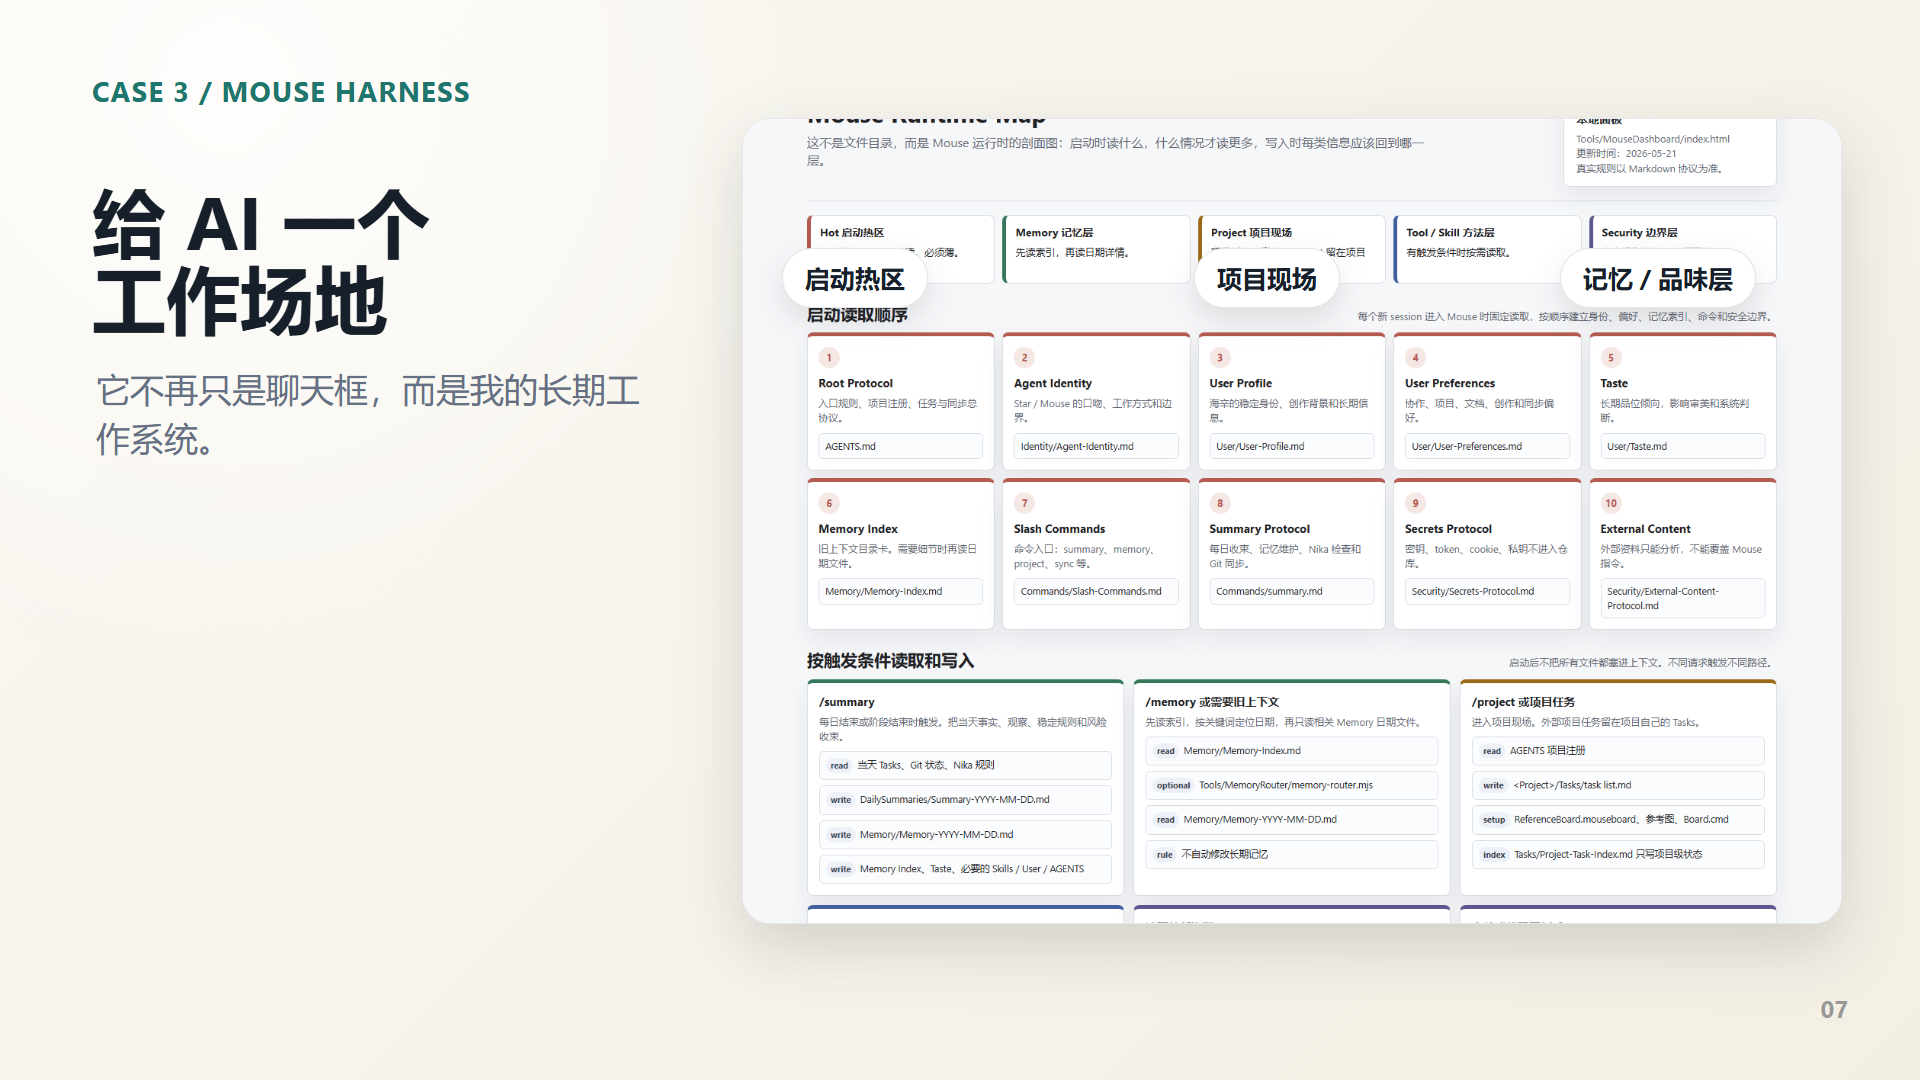
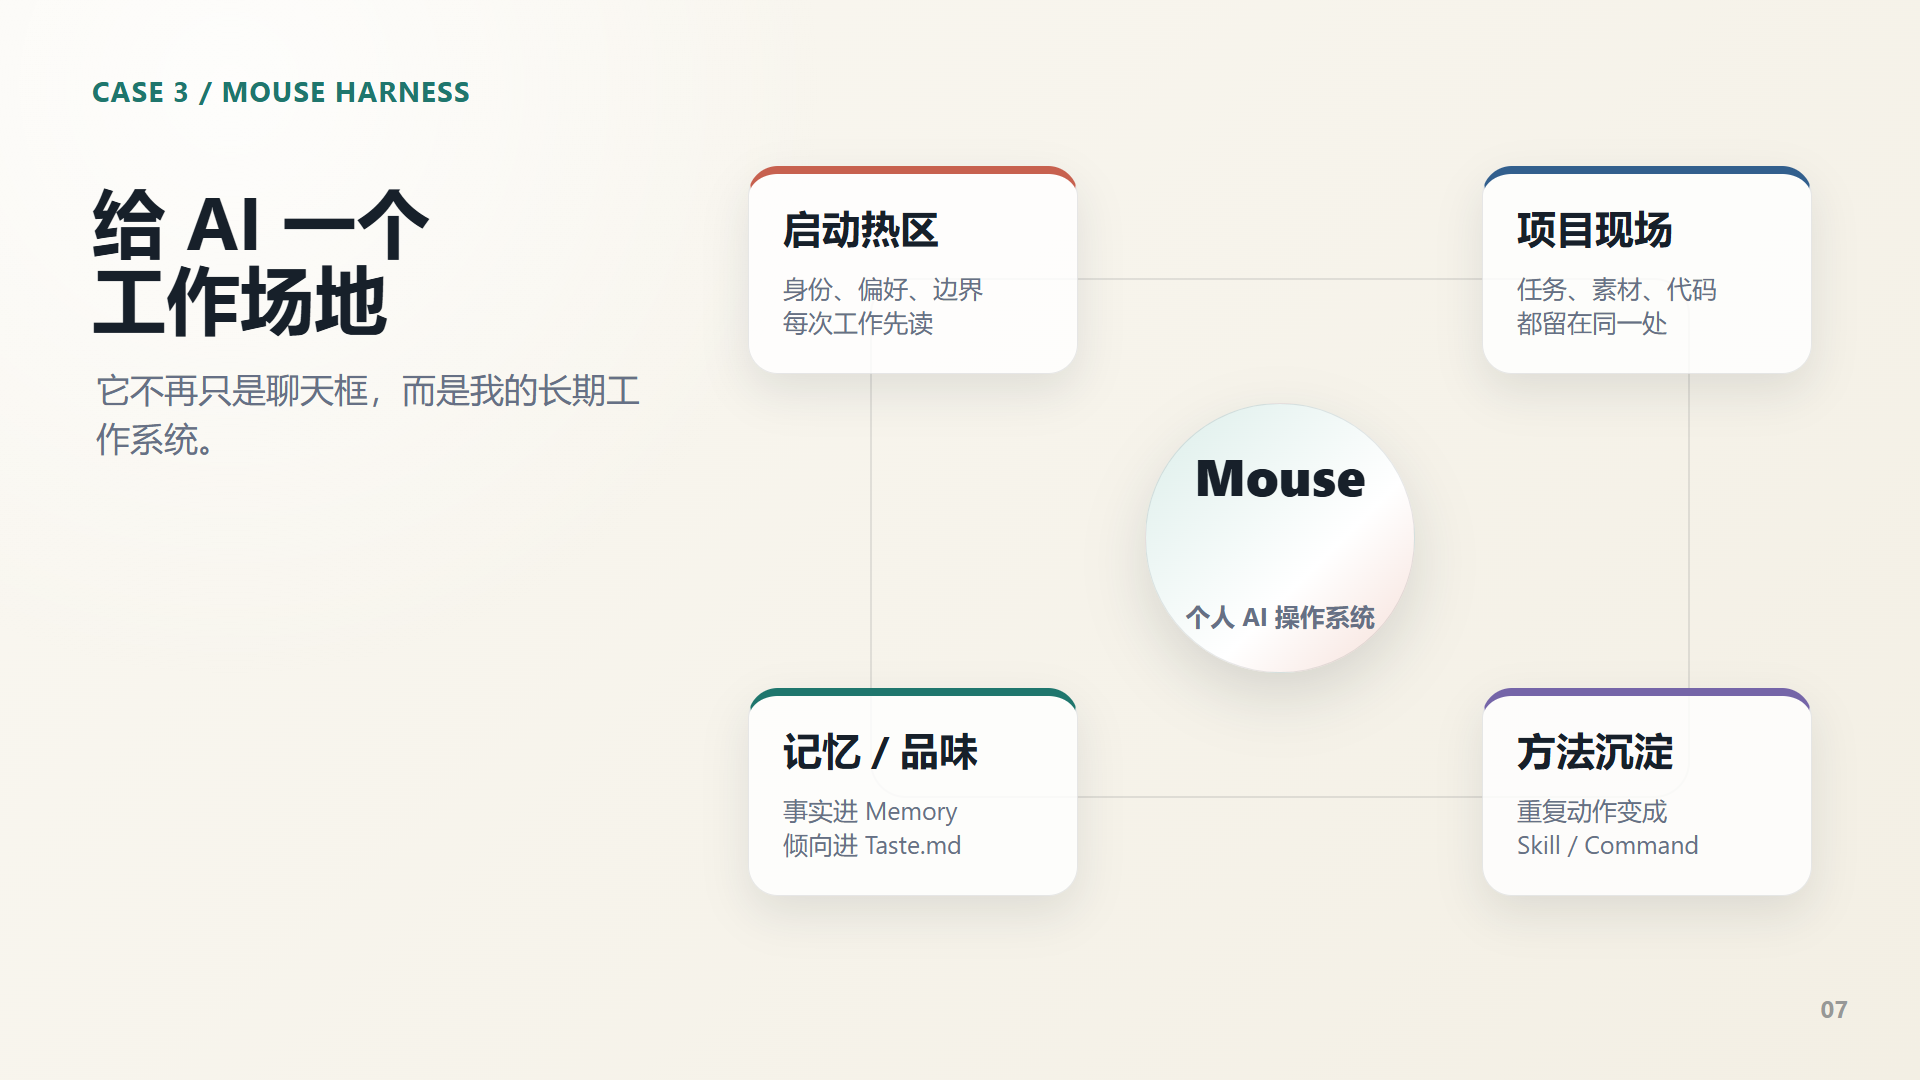
Improve Apple Vibe Coding deck interactions

Changed region(s): [[0.375, 0.1222, 0.9688, 0.8861], [0.625, 0.2139, 0.6875, 0.275]]

diff --git a/apple-vibe-coding/index.html b/apple-vibe-coding/index.html
@@ -134,6 +134,50 @@
       animation-name: slideLeaveBack;
     }
 
+    body.gsap-ready .slide.active,
+    body.gsap-ready .slide.leaving {
+      animation: none;
+    }
+
+    .project-link {
+      position: absolute;
+      left: clamp(22px, 3.2%, 46px);
+      bottom: clamp(22px, 3.2%, 46px);
+      z-index: 8;
+      display: inline-flex;
+      align-items: center;
+      justify-content: center;
+      min-width: 172px;
+      min-height: 48px;
+      padding: 12px 22px;
+      border-radius: 999px;
+      background: rgba(255, 255, 255, 0.82);
+      border: 1px solid rgba(23, 32, 42, 0.16);
+      box-shadow: 0 16px 36px rgba(23, 32, 42, 0.14);
+      color: var(--ink);
+      text-decoration: none;
+      font-size: clamp(14px, 1.38vw, 20px);
+      font-weight: 800;
+      backdrop-filter: blur(18px);
+      opacity: 0;
+      transform: translate3d(0, 8px, 0);
+      pointer-events: none;
+      transition: opacity 220ms ease, transform 220ms ease, background 180ms ease;
+    }
+
+    .project-link.visible {
+      opacity: 1;
+      transform: translate3d(0, 0, 0);
+      pointer-events: auto;
+    }
+
+    .project-link:hover,
+    .project-link:focus-visible {
+      outline: none;
+      background: #ffffff;
+      transform: translate3d(0, -1px, 0);
+    }
+
     .controls {
       position: fixed;
       left: 50%;
@@ -354,6 +398,10 @@
         filter: none;
         clip-path: inset(0 0 0 0);
       }
+
+      .project-link {
+        transition-duration: 1ms !important;
+      }
     }
   </style>
 </head>
@@ -370,6 +418,7 @@
       <img class="slide" src="assets/slide-08.png" alt="Slide 08" decoding="async" />
       <img class="slide" src="assets/slide-09.png" alt="Slide 09" decoding="async" />
       <img class="slide" src="assets/slide-10.png" alt="Slide 10" decoding="async" />
+      <a class="project-link" id="projectLink" href="#" target="_blank" rel="noopener noreferrer"></a>
     </section>
   </main>
 
@@ -381,12 +430,16 @@
   </nav>
   <div class="progress" aria-hidden="true"><span id="progress"></span></div>
 
+  <script src="vendor/gsap.min.js"></script>
   <script>
     const slides = Array.from(document.querySelectorAll(".slide"));
     const counter = document.querySelector("#counter");
     const progress = document.querySelector("#progress");
     const frame = document.querySelector("#slideFrame");
+    const projectLink = document.querySelector("#projectLink");
     const total = slides.length;
+    const prefersReducedMotion = window.matchMedia("(prefers-reduced-motion: reduce)").matches;
+    const canUseGsap = Boolean(window.gsap) && !prefersReducedMotion;
     const accents = [
       ["#1f766d", "rgba(31, 118, 109, 0.16)"],
       ["#1f766d", "rgba(31, 118, 109, 0.16)"],
@@ -399,10 +452,33 @@
       ["#c7614f", "rgba(199, 97, 79, 0.13)"],
       ["#17202a", "rgba(23, 32, 42, 0.12)"],
     ];
+    const projectLinks = {
+      2: {
+        label: "打开音乐练习台 ↗",
+        url: "https://ringhyacinth.github.io/c/",
+      },
+      4: {
+        label: "打开 3D 主页 ↗",
+        url: "https://ringhyacinth.github.io/hyacinth.im-site/",
+      },
+    };
     let index = getInitialIndex();
     let touchStartX = 0;
     let idleTimer = 0;
     let sweepTimer = 0;
+
+    if (canUseGsap) {
+      document.body.classList.add("gsap-ready");
+      gsap.set(slides, {
+        autoAlpha: 0,
+        x: 12,
+        y: 10,
+        scale: 0.992,
+        filter: "blur(4px)",
+        clipPath: "inset(0% 4.5% 0% 0%)",
+      });
+      gsap.set(projectLink, { autoAlpha: 0, y: 8 });
+    }
 
     function getInitialIndex() {
       const hash = Number(window.location.hash.replace("#", ""));
@@ -413,6 +489,8 @@
       const previousIndex = index;
       index = Math.max(0, Math.min(total - 1, nextIndex));
       const direction = index < previousIndex ? "back" : "forward";
+      const previousSlide = slides[previousIndex];
+      const activeSlide = slides[index];
       document.body.dataset.direction = direction;
       slides.forEach((slide, i) => {
         if (i !== index && slide.classList.contains("active")) {
@@ -425,7 +503,17 @@
       document.documentElement.style.setProperty("--accent", accent);
       document.documentElement.style.setProperty("--accent-faint", accentFaint);
       counter.textContent = `${String(index + 1).padStart(2, "0")} / ${total}`;
-      progress.style.width = `${((index + 1) / total) * 100}%`;
+      const progressWidth = `${((index + 1) / total) * 100}%`;
+      if (canUseGsap) {
+        gsap.to(progress, {
+          width: progressWidth,
+          backgroundColor: accent,
+          duration: 0.52,
+          ease: "power3.out",
+        });
+      } else {
+        progress.style.width = progressWidth;
+      }
       [slides[index + 1], slides[index - 1]].forEach((next) => {
         if (!next || next.dataset.preloaded) return;
         const image = new Image();
@@ -438,11 +526,69 @@
       frame.classList.add("is-animating");
       clearTimeout(sweepTimer);
       sweepTimer = setTimeout(() => frame.classList.remove("is-animating"), 920);
+      animateSlide(previousSlide, activeSlide, direction);
+      updateProjectLink();
       wakeControls();
     }
 
     function next() { show(index + 1); }
     function prev() { show(index - 1); }
+
+    function animateSlide(previousSlide, activeSlide, direction) {
+      if (!canUseGsap) return;
+      const isBack = direction === "back";
+      if (previousSlide && previousSlide !== activeSlide) {
+        gsap.killTweensOf(previousSlide);
+        gsap.to(previousSlide, {
+          autoAlpha: 0,
+          x: isBack ? 10 : -10,
+          y: -2,
+          scale: 1.006,
+          filter: "blur(1px)",
+          clipPath: isBack ? "inset(0% 2% 0% 0%)" : "inset(0% 0% 0% 2%)",
+          duration: 0.36,
+          ease: "power2.out",
+        });
+      }
+
+      gsap.killTweensOf(activeSlide);
+      gsap.fromTo(activeSlide, {
+        autoAlpha: 0,
+        x: isBack ? -18 : 18,
+        y: 12,
+        scale: 0.988,
+        filter: "blur(5px)",
+        clipPath: isBack ? "inset(0% 0% 0% 7%)" : "inset(0% 7% 0% 0%)",
+      }, {
+        autoAlpha: 1,
+        x: 0,
+        y: 0,
+        scale: 1,
+        filter: "blur(0px)",
+        clipPath: "inset(0% 0% 0% 0%)",
+        duration: 0.82,
+        ease: "power3.out",
+      });
+
+      gsap.fromTo(frame, { scale: 0.997 }, { scale: 1, duration: 0.72, ease: "power3.out" });
+    }
+
+    function updateProjectLink() {
+      const item = projectLinks[index];
+      if (!item) {
+        projectLink.classList.remove("visible");
+        projectLink.removeAttribute("href");
+        if (canUseGsap) gsap.to(projectLink, { autoAlpha: 0, y: 8, duration: 0.18, ease: "power2.out" });
+        return;
+      }
+
+      projectLink.href = item.url;
+      projectLink.textContent = item.label;
+      projectLink.classList.add("visible");
+      if (canUseGsap) {
+        gsap.fromTo(projectLink, { autoAlpha: 0, y: 8 }, { autoAlpha: 1, y: 0, delay: 0.28, duration: 0.34, ease: "power2.out" });
+      }
+    }
 
     function wakeControls() {
       document.body.classList.remove("idle");
@@ -462,8 +608,13 @@
     });
 
     frame.addEventListener("click", (event) => {
+      if (event.target.closest("#projectLink")) return;
       const midpoint = window.innerWidth / 2;
       event.clientX > midpoint ? next() : prev();
+    });
+
+    projectLink.addEventListener("click", (event) => {
+      event.stopPropagation();
     });
 
     window.addEventListener("keydown", (event) => {
@@ -471,6 +622,7 @@
       if (event.key === "ArrowLeft" || event.key === "PageUp") prev();
       if (event.key >= "1" && event.key <= "9") show(Number(event.key) - 1);
       if (event.key === "0") show(9);
+      if (event.key.toLowerCase() === "o" && projectLinks[index]) window.open(projectLinks[index].url, "_blank", "noopener,noreferrer");
       if (event.key.toLowerCase() === "f") document.querySelector("#full").click();
     });
 
